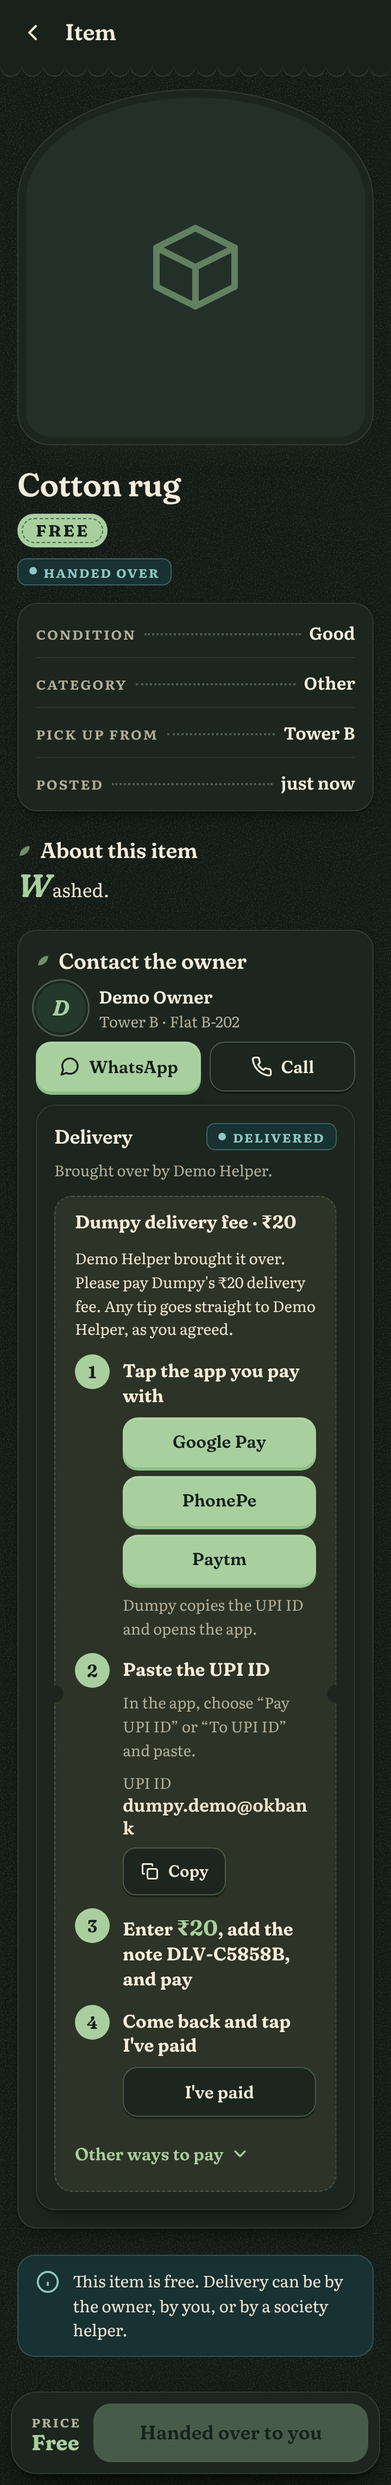
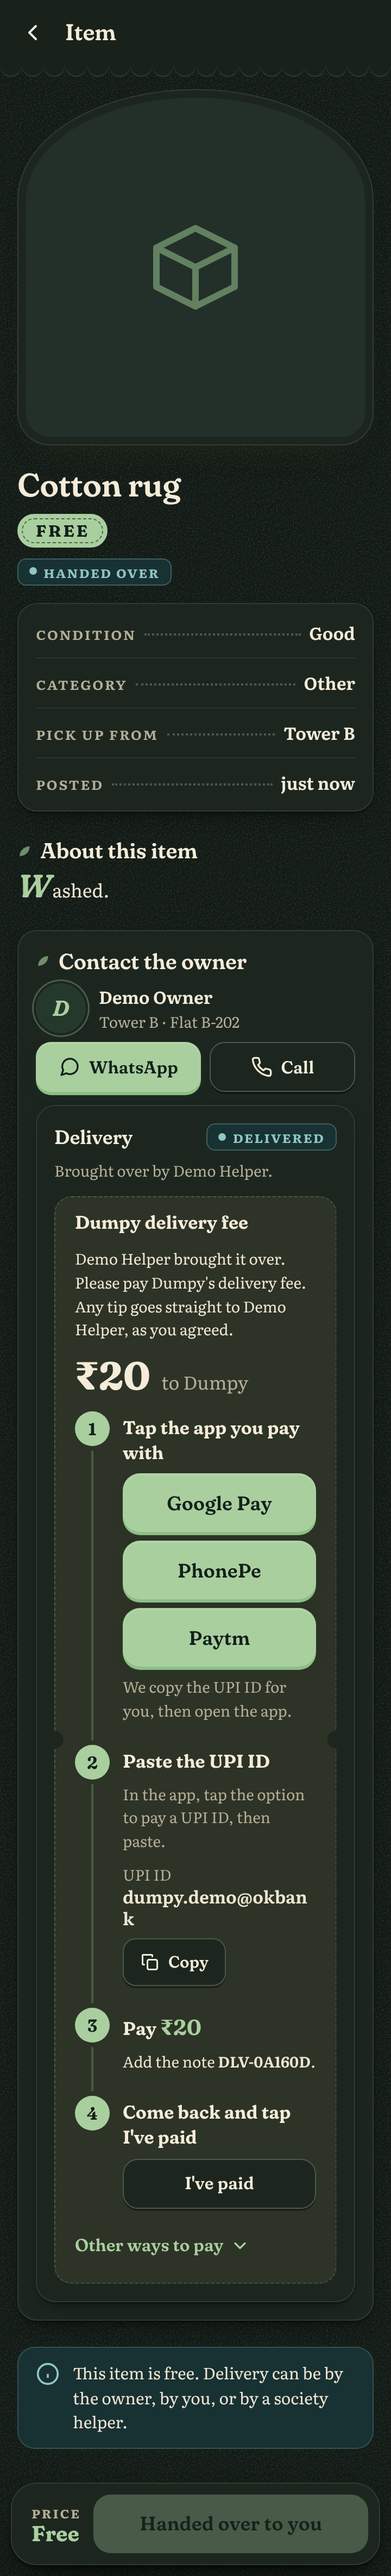
Pay steps clearer; optional business UPI ID for one-tap delivery fee
- Pay box: big amount and payee summary, numbered steps with ticks,
  one-tap app buttons when the fee UPI ID is a business one
- Run Dumpy: business UPI switch and merchant code; pasting a QR link fills the fields
- Migration 20261026120000_business_upi.sql: platform_settings gains
  fee_upi_business and fee_merchant_code; platform_fee_settings,
  platform_set_fee_settings and get_delivery replaced
- Tests and setup guide updated

Claude-Session: https://claude.ai/code/session_01RPdTXMb1PRF175KPwEZfhq

diff --git a/js/pay.js b/js/pay.js
@@ -75,47 +75,72 @@
       '<button type="button" class="btn btn--outline btn--sm" data-pay-copy="' + esc(upi) + '" aria-label="Copy UPI ID ' + esc(upi) + '">' + ICON_COPY + "Copy</button></div>";
   }
   function step(n, title, body) {
-    return '<li class="pay-step"><span class="pay-step__n" aria-hidden="true">' + n + '</span><div class="pay-step__body">' +
+    return '<li class="pay-step" data-pay-step="' + n + '"><span class="pay-step__n" aria-hidden="true">' + n + '</span><div class="pay-step__body">' +
       '<p class="pay-step__t">' + title + "</p>" + (body || "") + "</div></li>";
   }
 
-  // How to pay, as numbered steps. Used for item payments and the Dumpy fee.
-  //   href   the upi://pay link (UPI ID, name, amount, note)
-  //   price  "₹250"
-  //   note   a reference to type as the payment note, or ""
-  //   last   [title, html] for a final step (for example "Tap I've paid"), or null
-  //   qrLabel  what the QR code pays, for screen readers
-  function steps(href, price, note, last, qrLabel) {
+  // Where to paste a UPI ID in each app, shown after the person taps it.
+  var WHERE = {
+    "Google Pay": "In Google Pay, tap “Pay UPI ID or number”, then paste.",
+    "PhonePe": "In PhonePe, tap the option to pay a UPI ID, then paste.",
+    "Paytm": "In Paytm, tap the option to pay a UPI ID, then paste."
+  };
+  // One-tap links that open an app with the payment filled in. Only used for
+  // business UPI IDs: Google Pay refuses them for personal ones.
+  var ONE_TAP_IOS = { "Google Pay": "gpay://upi/pay", "PhonePe": "phonepe://pay", "Paytm": "paytmmp://upi/pay" };
+  function oneTapHref(app, href, kind) {
+    var query = href.slice(href.indexOf("?"));
+    return kind === "android" ? "intent://pay" + query + "#Intent;scheme=upi;package=" + app.android + ";end" : ONE_TAP_IOS[app.name] + query;
+  }
+
+  // How to pay, as a big amount and numbered steps. Used for item payments
+  // and the Dumpy fee.
+  //   o.href     the upi://pay link (UPI ID, name, amount, note)
+  //   o.price    "₹250"
+  //   o.payee    who is paid, for "to Demo Owner"
+  //   o.note     a reference to add as the payment note, or ""
+  //   o.last     [title, html] for a final step (for example "Tap I've paid")
+  //   o.oneTap   true for a business UPI ID: the app opens with everything filled in
+  function steps(o) {
     var kind = phoneKind();
+    var href = o.href;
     var upi = linkParam(href, "pa");
     var qr = qrSvg(href);
-    var qrBox = qr ? '<figure class="pay__qrcode" role="img" aria-label="QR code to pay ' + esc(qrLabel) + '">' + qr + "</figure>" : "";
-    var amountText = "Enter <strong class=\"pay__amount\">" + esc(price) + "</strong>" +
-      (note ? ', add the note <strong translate="no">' + esc(note) + "</strong>," : "") + " and pay";
+    var qrBox = qr ? '<figure class="pay__qrcode" role="img" aria-label="QR code to pay ' + esc(o.payee) + " " + esc(o.price) + '">' + qr + "</figure>" : "";
+    var noteText = o.note ? ' Add the note <strong translate="no">' + esc(o.note) + "</strong>." : "";
     var n = 0;
-    var html = '<ol class="pay-steps">';
-    if (kind) {
+    var html = '<p class="pay__sum"><span class="pay__sum-amount">' + esc(o.price) + '</span><span class="pay__sum-to">to ' + esc(o.payee) + "</span></p>" +
+      '<ol class="pay-steps">';
+    if (kind && o.oneTap) {
       html += step(++n, "Tap the app you pay with",
         '<div class="pay__apps">' + APPS.map(function (a) {
-          return '<a class="btn btn--primary" href="' + esc(openHref(a, kind)) + '" data-pay-app="' + esc(a.name) + '" data-pay-id="' + esc(upi) + '">' + esc(a.name) + "</a>";
+          return '<a class="btn btn--primary btn--lg" href="' + esc(oneTapHref(a, href, kind)) + '" data-pay-app="' + esc(a.name) + '" data-pay-onetap>' + esc(a.name) + "</a>";
         }).join("") + "</div>" +
-        '<p class="small muted">Dumpy copies the UPI ID and opens the app.</p>' +
+        '<p class="small muted">It opens with ' + esc(o.price) + " and everything else filled in.</p>");
+      html += step(++n, "Check it says " + esc(o.price) + ", then pay");
+    } else if (kind) {
+      html += step(++n, "Tap the app you pay with",
+        '<div class="pay__apps">' + APPS.map(function (a) {
+          return '<a class="btn btn--primary btn--lg" href="' + esc(openHref(a, kind)) + '" data-pay-app="' + esc(a.name) + '" data-pay-id="' + esc(upi) + '">' + esc(a.name) + "</a>";
+        }).join("") + "</div>" +
+        '<p class="small muted">We copy the UPI ID for you, then open the app.</p>' +
         '<p class="small pay__apps-status" data-pay-status-line role="status" aria-live="polite"></p>');
       html += step(++n, "Paste the UPI ID",
-        '<p class="small muted">In the app, choose “Pay UPI ID” or “To UPI ID” and paste.</p>' + copyRow(upi));
-      html += step(++n, amountText);
+        '<p class="small muted" data-pay-where>In the app, tap the option to pay a UPI ID, then paste.</p>' + copyRow(upi));
+      html += step(++n, "Pay <span class=\"pay__amount\">" + esc(o.price) + "</span>", noteText ? '<p class="small">' + noteText.trim() + "</p>" : "");
     } else {
       html += step(++n, "Scan this code with your phone",
         '<p class="small muted">Use any UPI app: Google Pay, PhonePe, Paytm or your bank\'s app.</p>' + qrBox + copyRow(upi));
-      html += step(++n, amountText);
+      html += step(++n, "Pay <span class=\"pay__amount\">" + esc(o.price) + "</span>", noteText ? '<p class="small">' + noteText.trim() + "</p>" : "");
     }
-    if (last) html += step(++n, last[0], last[1]);
+    if (o.last) html += step(++n, o.last[0], o.last[1]);
     html += "</ol>";
     html += '<details class="pay__more" data-pay-qr><summary>Other ways to pay</summary><div class="stack-sm">' +
+      (kind && o.oneTap ? '<p class="small muted">Pay the UPI ID yourself in any UPI app:</p>' + copyRow(upi) : "") +
       '<a class="btn btn--outline btn--block" href="' + esc(href) + '" data-pay-link>Open payment link</a>' +
-      '<p class="small muted">Fills in the amount for you. Some apps, like Google Pay, refuse these links for personal UPI IDs.</p>' +
+      (o.oneTap ? "" : '<p class="small muted">Fills in the amount for you. Some apps, like Google Pay, refuse these links for personal UPI IDs.</p>') +
       (kind && qrBox ? qrBox + '<p class="small muted">Or scan this code with another phone.</p>' : "") +
-      "<p class=\"small muted\">You can also pay " + esc(price) + " in cash. Dumpy never holds money.</p></div></details>";
+      "<p class=\"small muted\">You can also pay " + esc(o.price) + " in cash. Dumpy never holds money.</p></div></details>";
     return html;
   }
 
@@ -193,7 +218,8 @@
     }
 
     var href = link(upi, c.display_name, l.price_inr, l.title);
-    return head + steps(href, price, "", null, esc(c.display_name) + " " + price) + "</div>";
+    head = head.replace(">Payment · " + price + "<", ">Payment<");
+    return head + steps({ href: href, price: price, payee: c.display_name }) + "</div>";
   }
 
   async function copy(text) {
@@ -217,13 +243,18 @@
   // App buttons: copy the UPI ID first, then open the app.
   document.addEventListener("click", async function (e) {
     var a = e.target.closest && e.target.closest("[data-pay-app]");
-    if (!a) return;
+    if (!a || a.hasAttribute("data-pay-onetap")) return;
     e.preventDefault();
-    var line = a.closest(".pay").querySelector("[data-pay-status-line]");
+    var box = a.closest(".pay");
+    var line = box.querySelector("[data-pay-status-line]");
+    var where = box.querySelector("[data-pay-where]");
     var said = "";
-    try { await copy(a.dataset.payId); said = "UPI ID copied. Opening " + a.dataset.payApp + "…"; }
+    try { await copy(a.dataset.payId); said = "✓ UPI ID copied. Opening " + a.dataset.payApp + "…"; }
     catch (err) { said = "Opening " + a.dataset.payApp + ". Copy the UPI ID below if it isn't filled in."; }
     if (line) line.textContent = said;
+    if (where) where.textContent = WHERE[a.dataset.payApp] || where.textContent;
+    var first = box.querySelector('[data-pay-step="1"]');
+    if (first) first.classList.add("is-done");
     var go = a.getAttribute("href");
     setTimeout(function () { window.location.href = go; }, 400);
   });

diff --git a/tests/browser/fees.js b/tests/browser/fees.js
@@ -176,15 +176,41 @@ const q1 = (query) => sql(query).split('\n').filter(Boolean).pop() || '';
   sql(`select public.mark_delivered('${rid}')`, HELPER.id);
   await td.reload(); await settle(td);
   await td.waitForSelector(`${box} [data-pay-app]`);
-  check((await td.getAttribute(`${box} [data-pay-app="PhonePe"]`, 'data-pay-id')) === 'dumpy.demo@okbank' && /Enter ₹20, add the note DLV-[0-9A-F]{6}, and pay/.test(await td.textContent(`${box} .pay-steps`)) && /4\s*Come back and tap I've paid/.test(await td.textContent(`${box} .pay-steps`)), 'On Android the fee box offers PhonePe and the other UPI apps, with the ID to copy and ₹20 to enter');
+  check((await td.getAttribute(`${box} [data-pay-app="PhonePe"]`, 'data-pay-id')) === 'dumpy.demo@okbank' && /3\s*Pay ₹20\s*Add the note DLV-[0-9A-F]{6}/.test(await td.textContent(`${box} .pay-steps`)) && /4\s*Come back and tap I've paid/.test(await td.textContent(`${box} .pay-steps`)), 'On Android the fee box offers PhonePe and the other UPI apps, with the ID to copy and ₹20 to enter');
   await shot(td, 'item-fee-due-dark');
+
+  // A business UPI ID: pasting the business QR link on Run Dumpy fills in the
+  // details, and the taker's app opens with ₹20 and the reference filled in.
+  await b.goto(SITE + '/pages/platform.html'); await settle(b);
+  await b.waitForSelector('#fees:not([hidden])');
+  check(await b.isHidden('#fee-mc-field'), 'The merchant code field stays hidden for a personal UPI ID');
+  await b.fill('#fee-upi', 'upi://pay?pa=Q987654321@ybl&pn=Dumpy%20Store&mc=5399&mode=02&purpose=00');
+  check((await b.inputValue('#fee-upi')) === 'Q987654321@ybl' && (await b.inputValue('#fee-name')) === 'Dumpy Store'
+    && await b.isChecked('#fee-business') && (await b.inputValue('#fee-mc')) === '5399',
+    'Pasting the business QR link fills in the UPI ID, name and merchant code, and ticks "business"');
+  await noSideScroll(b, 'run dumpy business upi'); await smallTargets(b, 'run dumpy business upi');
+  await b.evaluate(() => document.getElementById('fee-form').scrollIntoView());
+  await shot(b, 'platform-business-upi-light', false);
+  await b.click('#fee-form button[type=submit]');
+  await b.waitForSelector('#fee-saved:not([hidden])');
+  check(q1(`select fee_upi_id || ' ' || fee_upi_business || ' ' || fee_merchant_code from public.platform_settings`) === 'Q987654321@ybl true 5399', 'The business UPI ID is saved');
+  await td.reload(); await settle(td);
+  await td.waitForSelector(`${box} [data-pay-onetap]`);
+  const one = await td.getAttribute(`${box} [data-pay-app="Google Pay"]`, 'href');
+  check(one.startsWith('intent://pay?pa=Q987654321@ybl&pn=Dumpy%20Store&am=20.00&cu=INR&tn=') && one.includes('&mc=5399&tr=DLV-')
+    && one.endsWith('#Intent;scheme=upi;package=com.google.android.apps.nbu.paisa.user;end'),
+    'With a business UPI ID, Google Pay opens with ₹20, the merchant code and the reference filled in\n       ' + one);
+  const oneText = await td.textContent(`${box} .pay-steps`);
+  check(/2\s*Check it says ₹20, then pay/.test(oneText) && /3\s*Come back and tap I've paid/.test(oneText), 'Business UPI: three steps, tap your app, check ₹20 and pay, tap I\'ve paid');
+  await noSideScroll(td, 'fee business'); await smallTargets(td, 'fee business');
+  await shot(td, 'item-fee-business-dark');
   const bd = await personPage(BOSS, 'dark');
   await bd.goto(SITE + '/pages/platform.html'); await settle(bd);
   await bd.waitForSelector(`#fee-list [data-fee="${rid}"]`);
   await shot(bd, 'platform-fees-dark');
 
   // Turn the fee back off so later test files start as before.
-  sql(`update public.platform_settings set delivery_fee_inr = 0, fee_upi_id = null`);
+  sql(`update public.platform_settings set delivery_fee_inr = 0, fee_upi_id = null, fee_upi_business = false, fee_merchant_code = null`);
   check(!sqlTry(`select 1`).error, 'Fee switched back off');
 
   check(errors.length === 0, 'No script errors' + (errors.length ? ': ' + errors.join(' | ') : ''));

diff --git a/tests/browser/pay.js b/tests/browser/pay.js
@@ -53,7 +53,7 @@ const errors = [];
   check(u.searchParams.get('pa') === UPI && u.searchParams.get('am') === '250.00' && u.searchParams.get('cu') === 'INR'
     && u.searchParams.get('tn') === 'Dumpy: Folding study table & stool', 'A UPI app reads back the same ID, amount and note (the & in the title is escaped)');
   check((await t.textContent('[data-pay-link]')).trim() === 'Open payment link', 'The filled-in link is offered under Other ways to pay');
-  check((await t.textContent('.pay-steps')).includes('Scan this code with your phone') && (await t.textContent('.pay-steps')).includes('Enter ₹250 and pay'),
+  check((await t.textContent('.pay-steps')).includes('Scan this code with your phone') && (await t.textContent('.pay-steps')).includes('Pay ₹250') && (await t.textContent('.pay__sum')).includes('₹250to Demo Owner'),
     'Off a phone, the steps say to scan the code and enter ₹250');
   check(!(await t.evaluate(() => !!window.qrcode)) || (await t.locator('.pay__qrcode svg path').count()) === 1, 'A QR code of the same link is drawn in the browser');
   check(await t.evaluate(() => !!window.qrcode), 'The pinned QR library loaded');
@@ -74,8 +74,8 @@ const errors = [];
     && apps[2][1] === launch + 'net.one97.paytm;end' && apps.every((a) => a[2] === UPI),
     'Each Android button opens that app by its package (no payment link, which Google Pay refuses for personal UPI IDs) and carries the UPI ID to copy');
   const stepsText = await ta.textContent('.pay-steps');
-  check(/1\s*Tap the app you pay with/.test(stepsText) && /2\s*Paste the UPI ID/.test(stepsText) && /3\s*Enter ₹250 and pay/.test(stepsText),
-    'On a phone, three numbered steps: tap your app, paste the UPI ID, enter ₹250 and pay');
+  check(/1\s*Tap the app you pay with/.test(stepsText) && /2\s*Paste the UPI ID/.test(stepsText) && /3\s*Pay ₹250/.test(stepsText) && /₹250\s*to Demo Owner/.test(await ta.textContent('.pay__sum')),
+    'On a phone: ₹250 to Demo Owner in large type, then three numbered steps: tap your app, paste the UPI ID, pay ₹250');
   check((await ta.getAttribute('[data-pay-link]', 'href')) === expected && (await ta.textContent('[data-pay-link]')).trim() === 'Open payment link',
     'Other ways to pay keeps the filled-in upi:// link');
   check(!(await ta.content()).includes('whatsapp://pay'), 'No button hands the payment to WhatsApp');
@@ -85,6 +85,8 @@ const errors = [];
   await ta.click('.pay [data-pay-app="Google Pay"]');
   await ta.waitForFunction(() => /UPI ID copied/.test(document.querySelector('[data-pay-status-line]').textContent));
   check((await ta.evaluate(() => navigator.clipboard.readText())) === UPI, 'Tapping Google Pay copies the UPI ID, then opens the app');
+  check((await ta.textContent('[data-pay-where]')).includes('In Google Pay, tap “Pay UPI ID or number”') && await ta.evaluate(() => document.querySelector('[data-pay-step="1"]').classList.contains('is-done')),
+    'Step 1 is ticked and step 2 says where to paste in Google Pay');
   const ti = await personPage(TAKER, { userAgent: IPHONE });
   await ti.goto(SITE + '/pages/item.html?id=' + TABLE); await settle(ti); await ti.waitForSelector('.pay [data-pay-app]');
   const iapps = await ti.$$eval('.pay [data-pay-app]', (els) => els.map((e) => e.getAttribute('href')));

diff --git a/js/fees.js b/js/fees.js
@@ -82,15 +82,35 @@
     $("#fee-amount").value = s.delivery_fee_inr || 0;
     $("#fee-upi").value = s.fee_upi_id || "";
     $("#fee-name").value = s.fee_payee_name || "Dumpy";
+    $("#fee-business").checked = !!s.fee_upi_business;
+    $("#fee-mc").value = s.fee_merchant_code || "";
+    function showMc() { $("#fee-mc-field").hidden = !$("#fee-business").checked; }
+    showMc();
+    $("#fee-business").addEventListener("change", showMc);
+
+    // A pasted QR link (upi://pay?pa=...&pn=...&mc=...) fills in the fields.
+    // A merchant code in it means a business UPI ID.
+    $("#fee-upi").addEventListener("input", function () {
+      var v = this.value.trim();
+      if (!/^upi:\/\/pay\?/i.test(v)) return;
+      var q = new URLSearchParams(v.slice(v.indexOf("?") + 1));
+      if (q.get("pa")) this.value = q.get("pa");
+      if (q.get("pn")) $("#fee-name").value = q.get("pn").slice(0, 50);
+      if (q.get("mc")) { $("#fee-business").checked = true; $("#fee-mc").value = q.get("mc").slice(0, 4); }
+      showMc();
+    });
 
     form.addEventListener("input", function () { err.hidden = true; saved.hidden = true; });
     form.addEventListener("submit", async function (e) {
       e.preventDefault();
       var fee = $("#fee-amount").value.trim() === "" ? 0 : Number($("#fee-amount").value);
       var upi = $("#fee-upi").value.trim();
+      var business = $("#fee-business").checked;
+      var mc = $("#fee-mc").value.trim();
       var problem = !Number.isInteger(fee) || fee < 0 || fee > 500 ? ["#fee-amount", "The fee is a whole number of rupees from 0 to 500."]
         : upi && !UPI_RE.test(upi) ? ["#fee-upi", "That does not look like a UPI ID. It looks like name@okaxis."]
-        : fee > 0 && !upi ? ["#fee-upi", "Add the UPI ID the fee is paid to."] : null;
+        : fee > 0 && !upi ? ["#fee-upi", "Add the UPI ID the fee is paid to."]
+        : business && mc && !/^[0-9]{4}$/.test(mc) ? ["#fee-mc", "The merchant code is 4 digits, like 5399."] : null;
       if (problem) {
         err.querySelector("span").textContent = problem[1];
         err.hidden = false;
@@ -100,7 +120,7 @@
       var btn = form.querySelector("button[type=submit]");
       R.setBusy(btn, true, "Saving…");
       try {
-        await rpc("platform_set_fee_settings", { p_fee: fee, p_upi_id: upi, p_payee_name: $("#fee-name").value.trim() });
+        await rpc("platform_set_fee_settings", { p_fee: fee, p_upi_id: upi, p_payee_name: $("#fee-name").value.trim(), p_business: business, p_merchant_code: business ? mc : "" });
         saved.querySelector("span").textContent = fee > 0 ? "Saved. New helper deliveries carry a " + rupees(fee) + " fee." : "Saved. The delivery fee is off.";
         saved.hidden = false;
       } catch (ex) {

diff --git a/pages/platform.html b/pages/platform.html
@@ -47,8 +47,17 @@
           </div>
           <div class="field">
             <label class="label" for="fee-upi">Your UPI ID</label>
-            <input class="input" id="fee-upi" inputmode="email" autocomplete="off" autocapitalize="off" spellcheck="false" maxlength="128" placeholder="name@bank" aria-describedby="fee-upi-hint">
-            <span class="hint" id="fee-upi-hint">Fees are paid straight to this ID. Only takers who owe a fee see it.</span>
+            <input class="input" id="fee-upi" inputmode="email" autocomplete="off" autocapitalize="off" spellcheck="false" maxlength="600" placeholder="name@bank" aria-describedby="fee-upi-hint">
+            <span class="hint" id="fee-upi-hint">Fees are paid straight to this ID. Only takers who owe a fee see it. You can also paste the link from your business QR code (it starts with upi://), and Dumpy fills in the details.</span>
+          </div>
+          <label class="switch">
+            <span class="switch__text"><strong>This is a business UPI ID</strong><br><span class="small muted">From PhonePe Business or another merchant app. Takers then pay in one tap, with ₹ and the reference filled in. Leave off for a personal UPI ID: Google Pay blocks one-tap links to those.</span></span>
+            <input type="checkbox" id="fee-business" role="switch">
+          </label>
+          <div class="field" id="fee-mc-field" hidden>
+            <label class="label" for="fee-mc">Merchant code <span class="label__opt">(optional)</span></label>
+            <input class="input" id="fee-mc" inputmode="numeric" maxlength="4" placeholder="5399" aria-describedby="fee-mc-hint">
+            <span class="hint" id="fee-mc-hint">The 4 digits after mc= in your business QR link. Pasting the link above fills it in.</span>
           </div>
           <div class="field">
             <label class="label" for="fee-name">Name shown in UPI apps</label>

diff --git a/js/delivery.js b/js/delivery.js
@@ -214,12 +214,19 @@
     }
     var upi = d.fee_upi_id;
     var P = Dumpy.pay;
-    var href = upi && P ? P.link(upi, d.fee_payee_name || "Dumpy", d.fee_inr, "delivery " + d.fee_ref) : null;
+    var href = null;
+    if (upi && P) {
+      href = P.link(upi, d.fee_payee_name || "Dumpy", d.fee_inr, "delivery " + d.fee_ref);
+      // Business UPI IDs: add the merchant code and a transaction reference,
+      // which merchant payments expect.
+      if (d.fee_upi_business) href += (d.fee_merchant_code ? "&mc=" + d.fee_merchant_code : "") + "&tr=" + encodeURIComponent(d.fee_ref);
+    }
     var paidBtn = '<button type="button" class="btn btn--outline btn--block" data-dact="feepaid">I\'ve paid</button>';
-    return head +
-      '<p class="small">' + esc(d.helper_name || "The helper") + " brought it over. Please pay Dumpy's " + price +
-        " delivery fee. Any tip goes straight to " + esc(d.helper_name || "the helper") + ", as you agreed.</p>" +
-      (href ? P.steps(href, price, d.fee_ref, ["Come back and tap I've paid", paidBtn], "Dumpy " + price)
+    return head.replace(">Dumpy delivery fee · " + price + "<", ">Dumpy delivery fee<") +
+      '<p class="small">' + esc(d.helper_name || "The helper") + " brought it over. Please pay Dumpy's delivery fee. Any tip goes straight to " +
+        esc(d.helper_name || "the helper") + ", as you agreed.</p>" +
+      (href ? P.steps({ href: href, price: price, payee: d.fee_payee_name || "Dumpy", note: d.fee_upi_business ? "" : d.fee_ref,
+                        last: ["Come back and tap I've paid", paidBtn], oneTap: !!d.fee_upi_business })
         : '<p class="small">Ask the person who runs Dumpy how to pay.</p>' + paidBtn) +
       "</div>";
   }

diff --git a/css/style.css b/css/style.css
@@ -1425,8 +1425,18 @@ a.row-card__title:hover span { text-decoration: underline; text-underline-offset
 .pay__switch { gap: var(--space-3); }
 /* Paying, as numbered steps. On phones each app button copies the UPI ID and
    opens the app, so Pay never lands in WhatsApp or a refused payment link. */
-.pay-steps { list-style: none; margin: 0; padding: 0; display: flex; flex-direction: column; gap: var(--space-3); }
-.pay-step { display: grid; grid-template-columns: 32px minmax(0, 1fr); gap: var(--space-3); align-items: start; }
+.pay__sum { display: flex; flex-wrap: wrap; align-items: baseline; gap: 4px 10px; }
+.pay__sum-amount { font: 700 2.25rem/1.1 var(--font-display); color: var(--heading); }
+.pay__sum-to { font-size: 1.0625rem; color: var(--muted); overflow-wrap: anywhere; }
+.pay-steps { list-style: none; margin: 0; padding: 0; display: flex; flex-direction: column; gap: var(--space-4, 20px); }
+.pay-step { position: relative; display: grid; grid-template-columns: 32px minmax(0, 1fr); gap: var(--space-3); align-items: start; }
+/* A thin line joins each step's number to the next one. */
+.pay-step:not(:last-child)::before {
+  content: ""; position: absolute; left: 15px; top: 36px; bottom: calc(-1 * var(--space-4, 20px) + 4px);
+  width: 2px; border-radius: 1px; background: color-mix(in srgb, var(--brand) 25%, transparent);
+}
+.pay-step.is-done .pay-step__n { font-size: 0; }
+.pay-step.is-done .pay-step__n::after { content: "✓"; font-size: 1rem; }
 .pay-step__n {
   display: grid; place-items: center; width: 32px; height: 32px; border-radius: 50%;
   background: var(--brand); color: var(--brand-ink); font: 650 1rem/1 var(--font-display);

diff --git a/docs/delivery-fee-setup.md b/docs/delivery-fee-setup.md
@@ -24,3 +24,24 @@ Dumpy earns a small flat fee each time a neighbour helper delivers an item.
 4. **Check payments.** When a taker taps I've paid, the fee shows on Run Dumpy as **Says paid** with its reference. Find that reference in your UPI app's history, then tap **Confirm received**. If it never arrived, tap **Not received**: the taker sees Pay again and can't book another helper until they pay. You can also **Waive** a fee.
 
 The totals at the top of the section show what you have received, what is waiting to be checked, what is not paid yet, and fees on deliveries that are booked but not delivered yet.
+
+## Business UPI ID (optional, recommended)
+
+Google Pay refuses one-tap payment links to a **personal** UPI ID ("bank limit reached"), so with a personal ID the taker copies your ID and types the amount. With a **business** UPI ID the taker taps their app and it opens with the amount and reference already filled in.
+
+### Run the migration first
+In Supabase, **SQL Editor > New query**: paste `supabase/migrations/20261026120000_business_upi.sql` and Run. It is safe to run before the code is merged: the live site keeps working.
+
+### Get a free business UPI ID with PhonePe Business
+Cost: the app and the account are free, and UPI payments of ₹2,000 or less carry no merchant fee (MDR), even under the rules that start on 15 October 2026. A ₹20 fee is far below that. Skip the optional paid extras the app offers (the SmartSpeaker or a card machine); you don't need them.
+
+1. Install **PhonePe Business** (by PhonePe) from the Play Store or App Store.
+2. Sign up with the mobile number that is linked to your bank account, and enter the OTP.
+3. Enter a business name (for example "Dumpy"), a category close to what Dumpy does, and your address.
+4. Choose the bank account to receive money in. It must use the same mobile number. Verify it when the app asks (it may send an SMS from your phone).
+5. Finish KYC with your PAN (and Aadhaar if asked). If the app insists on a GSTIN and offers no "no GST" option, stop there and tell Claude in the Dumpy project.
+6. Wait for approval. It can take 1 to 3 working days.
+7. In the app, open your **QR code** (on the home screen or under "My QR").
+8. Scan that QR code with **Google Lens** (or any QR scanner) on another phone, or take a screenshot and open it in Google Lens. It shows text starting with `upi://pay?pa=…`. Copy all of it.
+9. On Dumpy, go to **Profile > Run Dumpy > Delivery fees**, tap **Your UPI ID** and paste. Dumpy fills in the UPI ID, the name and the merchant code, and ticks **This is a business UPI ID**. Tap **Save fee settings**.
+10. Test it: book a helper for a cheap item with a second account, deliver it, and on the fee box tap Google Pay. It should open with ₹20 filled in. Back out if you don't want to pay yourself.
